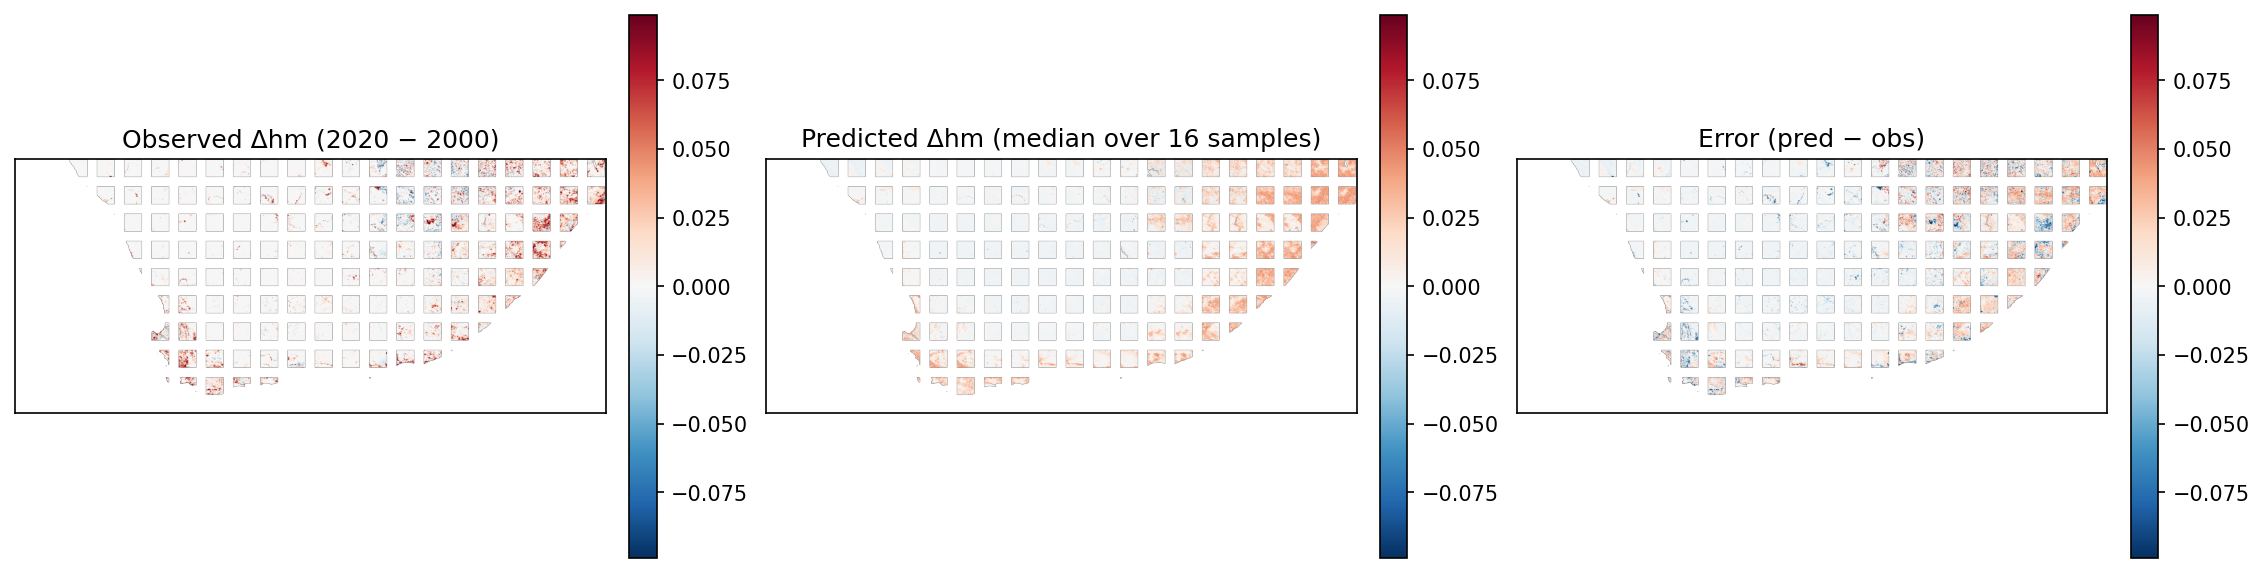
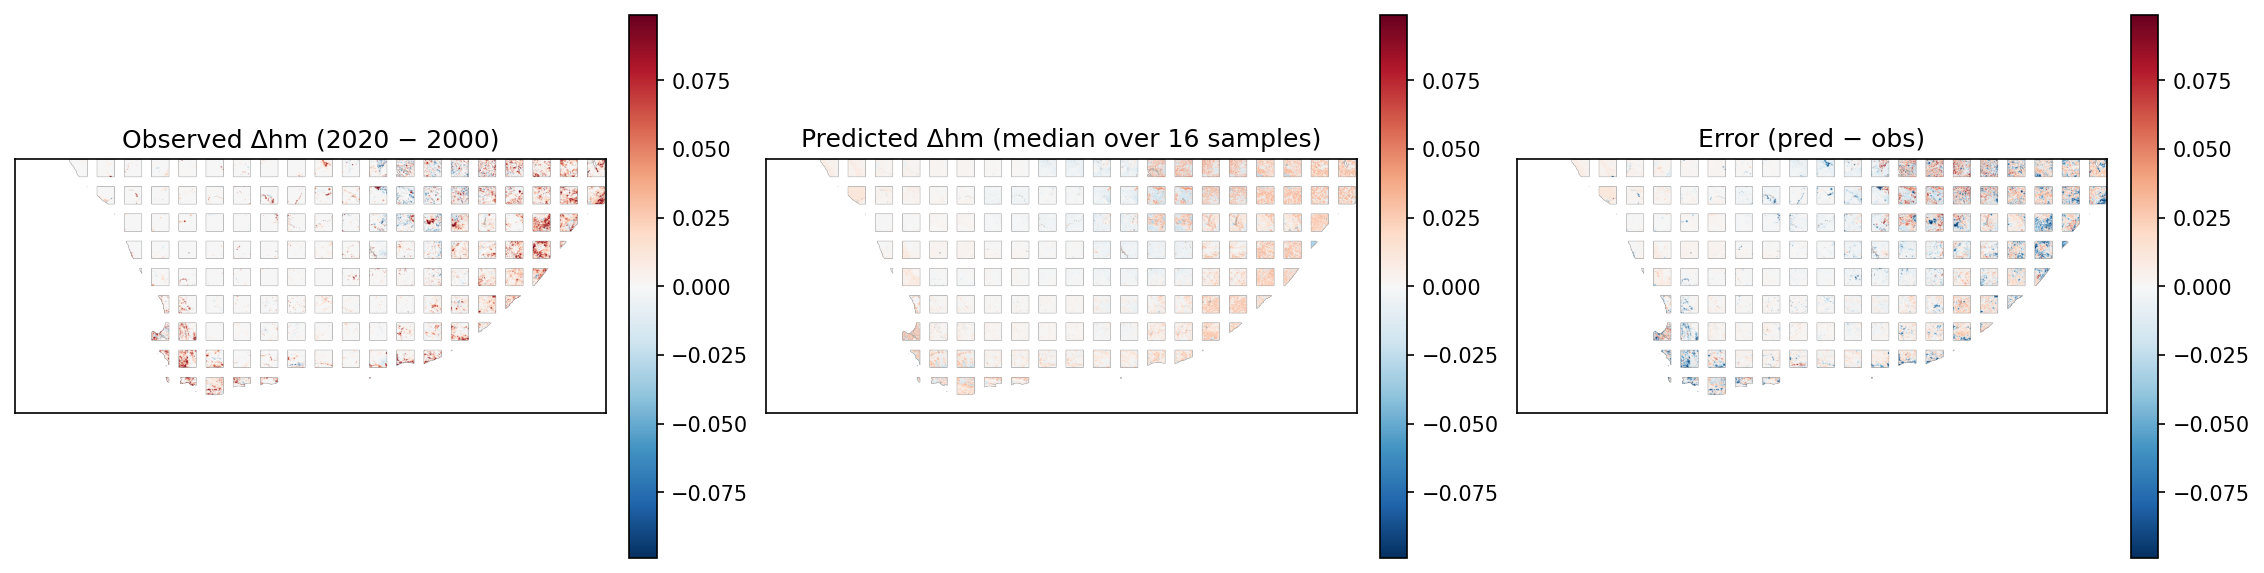
feat: classifier-free guidance support (v7)
CFG = drop conditioning randomly during training (cfg_dropout_prob,
typically 0.1) so the model also learns the unconditional score, then
at inference do two forward passes per step (cond + uncond) and blend
with `v_guided = v_uncond + scale * (v_cond - v_uncond)`.

- DiffusionLightningModule.training_step zeros out conditioning per
  batch element with probability cfg_dropout_prob.
- DiffusionLightningModule.sample takes a guidance_scale arg; if != 1,
  runs both passes and blends.
- Train script exposes --cfg_dropout_prob; predict script exposes
  --guidance_scale.

v7 trained with cfg_dropout_prob=0.1 on top of v6 (EMA + weighted
sampling + pixel reweighting + pattern loss); predicted with
guidance_scale=3.0.

Result: Pearson r dropped sharply (0.566 v6 → 0.310 v7@scale=3), MAE
roughly unchanged, coverage similar. guidance_scale=3 too aggressive —
amplification pushes samples to extreme values that break spatial
correlation against ground truth. Upper bins (Δhm > 0.1) still at 0
coverage. CFG plumbing is in place for future runs at lower
guidance_scale (1.5–2.0 likely the sweet spot for this task) without
retraining.

W&B run 5p6y9lmg.

diff --git a/src/models/diffusion_lightning.py b/src/models/diffusion_lightning.py
@@ -68,6 +68,7 @@ class DiffusionLightningModule(pl.LightningModule):
         pattern_temperature: float = 0.02,
         dhm_mean: float = 0.0,
         dhm_std: float = 1.0,
+        cfg_dropout_prob: float = 0.0,
     ):
         super().__init__()
         self.save_hyperparameters()
@@ -87,6 +88,7 @@ class DiffusionLightningModule(pl.LightningModule):
         self.pattern_temperature = float(pattern_temperature)
         self.dhm_mean = float(dhm_mean)
         self.dhm_std = float(dhm_std)
+        self.cfg_dropout_prob = float(cfg_dropout_prob)
 
         loc = _maybe_build_location_encoder(location_encoder_kwargs)
         if loc is None:
@@ -224,6 +226,11 @@ class DiffusionLightningModule(pl.LightningModule):
         x_0 = batch["target_dhm"]                  # [B, 1, H, W]
         valid = batch["valid_mask"].unsqueeze(1)   # [B, 1, H, W]
         B = x_0.shape[0]
+        # CFG: occasionally drop conditioning so the model also learns the
+        # unconditional score. At sampling we then blend cond + uncond.
+        if self.training and self.cfg_dropout_prob > 0:
+            keep = (torch.rand(B, device=cond.device) > self.cfg_dropout_prob).float()
+            cond = cond * keep.view(-1, 1, 1, 1)
         t = torch.randint(
             0, self.num_train_timesteps, (B,), device=x_0.device, dtype=torch.long
         )
@@ -320,6 +327,7 @@ class DiffusionLightningModule(pl.LightningModule):
         num_inference_steps: Optional[int] = None,
         generator: Optional[torch.Generator] = None,
         use_ema: Optional[bool] = None,
+        guidance_scale: float = 1.0,
     ) -> torch.Tensor:
         """Run DDIM sampling. Returns [n_samples, B, 1, H, W].
 
@@ -337,13 +345,20 @@ class DiffusionLightningModule(pl.LightningModule):
         try:
             B, C_cond, H, W = conditioning.shape
             cond_tiled = conditioning.repeat_interleave(n_samples, dim=0)  # [N*B, ...]
+            do_cfg = guidance_scale != 1.0
+            zero_cond = torch.zeros_like(cond_tiled) if do_cfg else None
             x = torch.randn(
                 n_samples * B, 1, H, W, device=conditioning.device,
                 dtype=conditioning.dtype, generator=generator,
             )
             for t in scheduler.timesteps:
                 t_batch = t.expand(x.shape[0]).to(x.device)
-                v_pred = self.unet(x, cond_tiled, t_batch)
+                if do_cfg:
+                    v_cond = self.unet(x, cond_tiled, t_batch)
+                    v_uncond = self.unet(x, zero_cond, t_batch)
+                    v_pred = v_uncond + guidance_scale * (v_cond - v_uncond)
+                else:
+                    v_pred = self.unet(x, cond_tiled, t_batch)
                 x = scheduler.step(v_pred, t, x).prev_sample
             return x.view(n_samples, B, 1, H, W)
         finally:

diff --git a/scripts/predict_region_diffusion.py b/scripts/predict_region_diffusion.py
@@ -51,6 +51,10 @@ def parse_args():
                         "to ensemble_n samples internally.")
     p.add_argument("--ensemble_n", type=int, default=16)
     p.add_argument("--num_inference_steps", type=int, default=30)
+    p.add_argument("--guidance_scale", type=float, default=1.0,
+                   help="CFG scale: 1=no guidance (use cond only); >1 amplifies the "
+                        "conditional. Only meaningful if the model was trained with "
+                        "cfg_dropout_prob > 0.")
     p.add_argument("--tile_size", type=int, default=64)
     p.add_argument("--dhm_stats_cache",
                    default="data/raw/hm_global/dhm_stats_20yr.json")
@@ -303,6 +307,7 @@ def main():
             samples = module.sample(
                 cond, n_samples=args.ensemble_n,
                 num_inference_steps=args.num_inference_steps,
+                guidance_scale=args.guidance_scale,
             )  # [N, B, 1, H, W]
 
         # Aggregate per tile

diff --git a/scripts/train_diffusion.py b/scripts/train_diffusion.py
@@ -89,6 +89,9 @@ def parse_args():
                    help="Average-pool kernel sizes for tile-pattern matching.")
     p.add_argument("--pattern_temperature", type=float, default=0.02,
                    help="Sigmoid temperature for soft binarisation.")
+    p.add_argument("--cfg_dropout_prob", type=float, default=0.0,
+                   help="Probability of dropping conditioning during training (CFG). "
+                        "0 = off; 0.1 standard. Enables classifier-free guidance at sampling.")
 
     # Location encoder
     p.add_argument("--use_location_encoder", action="store_true", default=True)
@@ -196,6 +199,7 @@ def main():
         pattern_temperature=args.pattern_temperature,
         dhm_mean=float(train_ds.dhm_mean),
         dhm_std=float(train_ds.dhm_std),
+        cfg_dropout_prob=args.cfg_dropout_prob,
     )
     n_params = sum(p.numel() for p in module.parameters())
     print(f"  module param count: {n_params/1e6:.1f}M")

diff --git a/docs/diffusion_v1_results.md b/docs/diffusion_v1_results.md
@@ -7,11 +7,11 @@
 - Aggregate-tile size: **16×16** pixels (10 km blocks).
 - Histogram bins (rarity-weighted, matches baseline `histogram_loss.py`):
   `[-1.0, -0.005, 0.005, 0.02, 0.1, 0.2, 0.4, 0.6, 1.0]`.
-- W&B run: [glennwithtwons/spatio-temporal-diffusion/91eyr33l](https://wandb.ai/glennwithtwons/spatio-temporal-diffusion/91eyr33l)
+- W&B run: [glennwithtwons/spatio-temporal-diffusion/5p6y9lmg](https://wandb.ai/glennwithtwons/spatio-temporal-diffusion/5p6y9lmg)
 
 ## Model & checkpoint
 
-- Checkpoint: `/Users/glen.moncrieff/python/spatio_temporal/spatio-temporal-diffusion/91eyr33l/checkpoints/dhm-diffusion-epoch33-valloss0.4230.ckpt`
+- Checkpoint: `/Users/glen.moncrieff/python/spatio_temporal/spatio-temporal-diffusion/5p6y9lmg/checkpoints/dhm-diffusion-epoch33-valloss0.4807.ckpt`
 - Stopping epoch: 33 (global step 2176)
 - Architecture: `ConditionalDiffusionUNet` (`diffusers.UNet2DModel`)
   - sample_size = 64
@@ -32,13 +32,13 @@
 | Metric | Value |
 |---|---|
 | Tiles with valid coverage | 2,003 of 7,150 |
-| Tile-mean MAE (median) | **0.0041** |
-| Tile-mean MAE (mean) | 0.0071 |
-| Tile-mean MAE (95th %ile) | 0.0227 |
-| Histogram intersection (median) | **0.801** |
-| Histogram intersection (mean) | 0.749 |
-| Pearson r (predicted vs. observed tile-mean Δhm) | 0.566 |
-| Coverage rate (q025 ≤ obs ≤ q975), all bins | 0.937 (target ≈ 0.95) |
+| Tile-mean MAE (median) | **0.0035** |
+| Tile-mean MAE (mean) | 0.0070 |
+| Tile-mean MAE (95th %ile) | 0.0250 |
+| Histogram intersection (median) | **0.741** |
+| Histogram intersection (mean) | 0.715 |
+| Pearson r (predicted vs. observed tile-mean Δhm) | 0.310 |
+| Coverage rate (q025 ≤ obs ≤ q975), all bins | 0.915 (target ≈ 0.95) |
 
 ### Coverage stratified by Δhm change bin
 
@@ -49,10 +49,10 @@ ones where the model has to express genuine uncertainty.
 
 | Δhm bin | n pixels | Coverage |
 |---|---:|---:|
-| `[ -1.000, -0.005]` | 26,031 | 0.708 |
-| `[ -0.005, +0.005]` | 345,050 | 0.987 |
-| `[ +0.005, +0.020]` | 51,561 | 0.974 |
-| `[ +0.020, +0.100]` | 40,825 | 0.720 |
+| `[ -1.000, -0.005]` | 26,031 | 0.689 |
+| `[ -0.005, +0.005]` | 345,050 | 0.973 |
+| `[ +0.005, +0.020]` | 51,561 | 0.954 |
+| `[ +0.020, +0.100]` | 40,825 | 0.627 |
 | `[ +0.100, +0.200]` | 4,020 | 0.000 |
 | `[ +0.200, +0.400]` | 525 | 0.000 |
 | `[ +0.400, +0.600]` | 19 | 0.000 |
